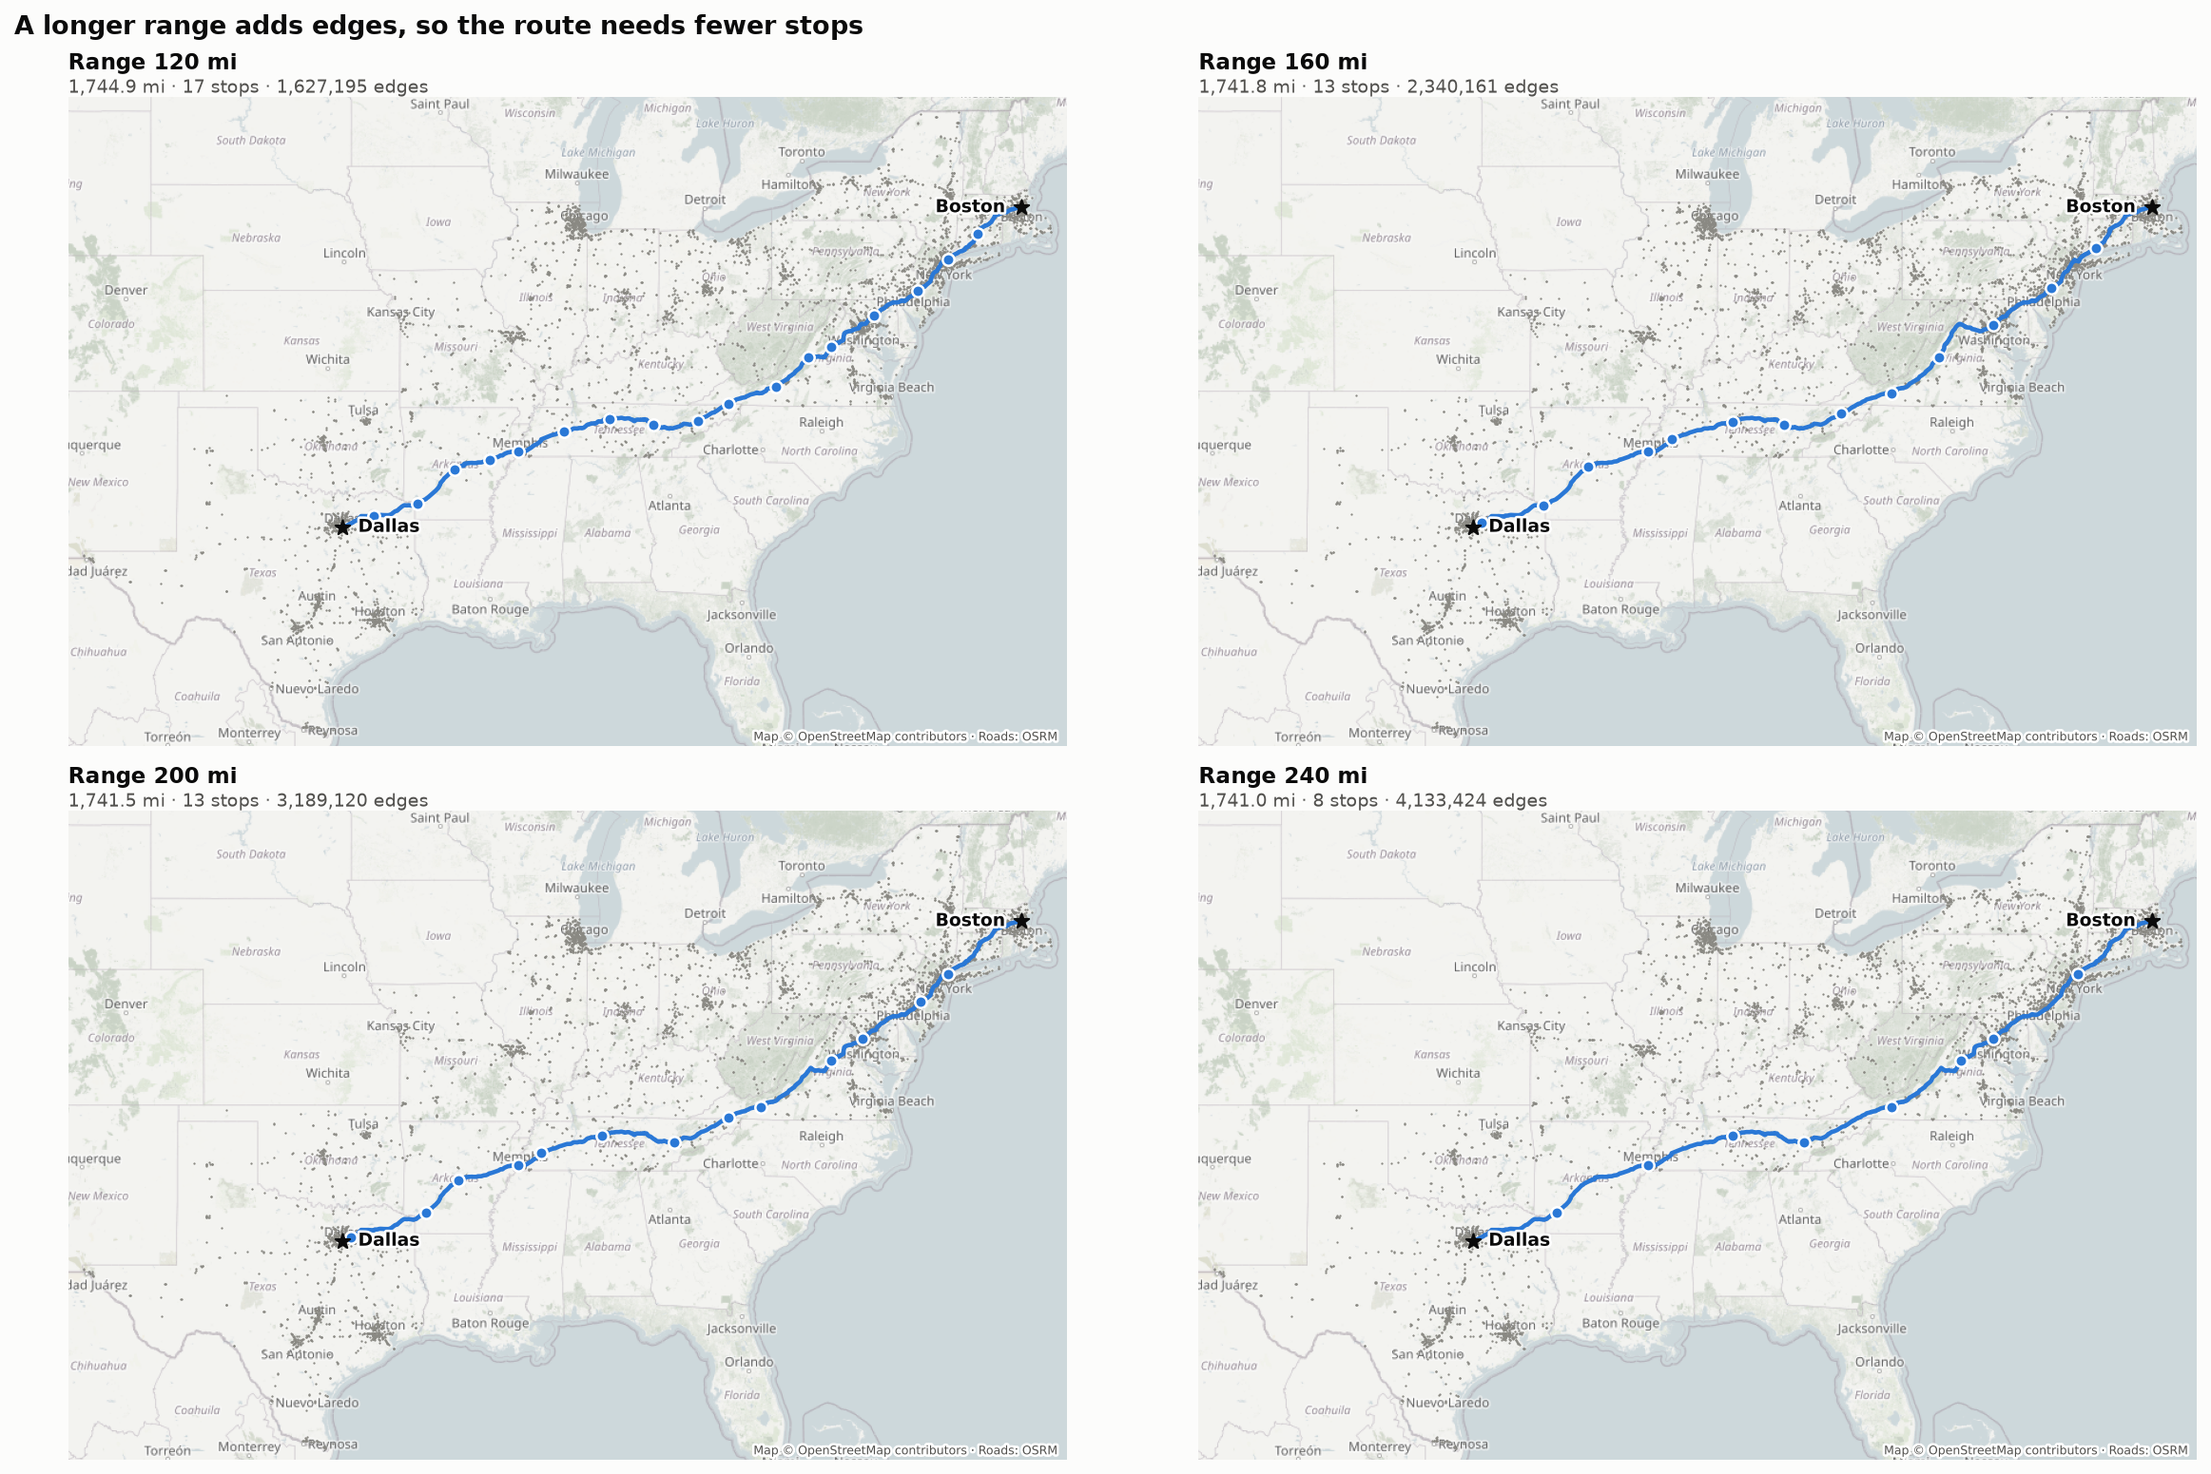
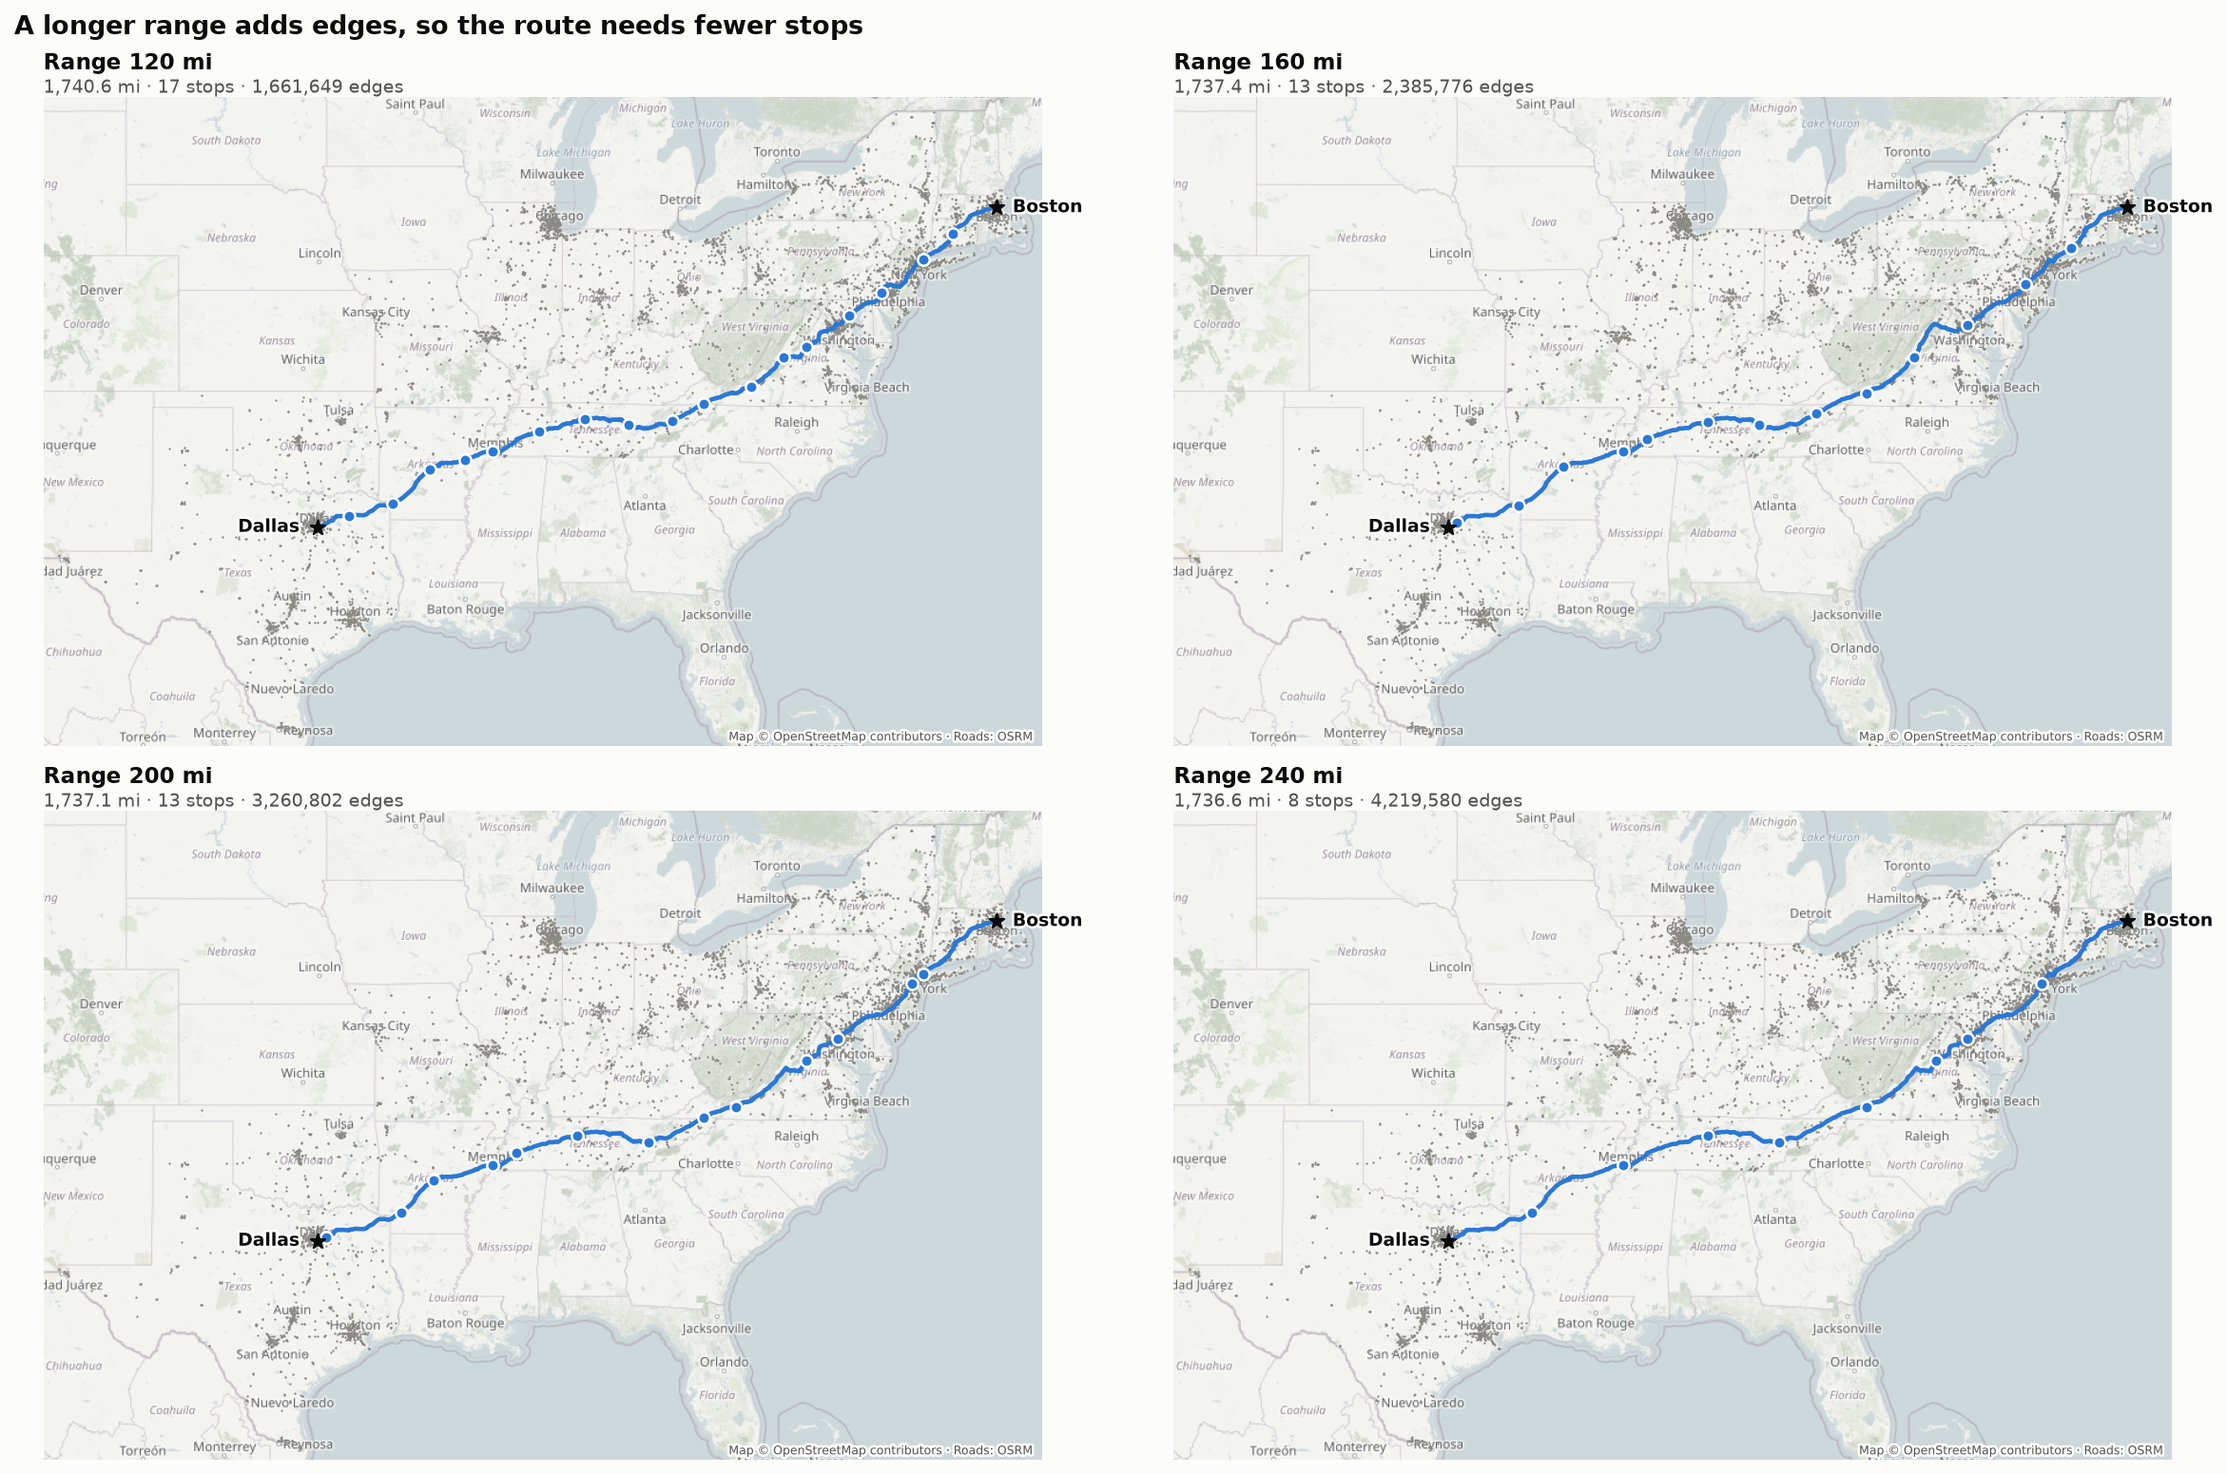
update of dijkstra and data generated by scirpts

diff --git a/Dijkstra/trip_table.py b/Dijkstra/trip_table.py
@@ -1,0 +1,122 @@
+"""Search work and time of Dijkstra on two real trips, as a slide table.
+
+Trips: Boston → Dallas and Buffalo, NY → Springfield, MO, on the same real network
+(network.py) with a 200-mile range (80% of a 250-mile Model Y). Boston → Dallas runs
+our hand-written Dijkstra, NetworkX and SciPy; Buffalo → Springfield only ours.
+
+  Nodes expanded  vertices taken off the heap with their distance final
+  Edges checked   edges looked at while relaxing those vertices
+  Median time     median of --trials timed searches; building the graph is not timed
+
+Run from this folder:
+    ../.venv/bin/python trip_table.py              # 101 timed runs per search
+    ../.venv/bin/python trip_table.py --trials 21
+The first run builds each trip's network (about a minute each) and caches it in cache/.
+"""
+
+import argparse
+import statistics
+import time
+
+import networkx as nx
+import numpy as np
+from scipy.sparse import csr_matrix
+from scipy.sparse.csgraph import dijkstra as scipy_dijkstra
+
+from dijkstra import charging_graph, dijkstra, shortest_path
+from network import END, START, load_network
+
+RANGE = 200
+TRIPS = [(START, END), ("Buffalo, NY", "Springfield, MO")]
+
+
+def median_ms(func, trials):
+    func()  # untimed warm-up
+    times = []
+    for _ in range(trials):
+        t0 = time.perf_counter()
+        func()
+        times.append((time.perf_counter() - t0) * 1000)
+    return statistics.median(times)
+
+
+def run_hand(graph, start, end, trials):
+    best, prev, trace = dijkstra(graph, start, end)
+    path = shortest_path(prev, start, end)
+    checked = sum(len(graph[u]) for u, _, _ in trace if u != end)  # the end is not relaxed
+    ms = median_ms(lambda: dijkstra(graph, start, end), trials)
+    return best[end], path, len(trace), checked, ms
+
+
+def run_networkx(graph, start, end, trials):
+    G = nx.DiGraph()
+    G.add_weighted_edges_from((a, b, w) for a, nbrs in graph.items() for b, w in nbrs.items())
+
+    # Count the work in one extra run: NetworkX calls the weight function once per
+    # edge it checks, from every vertex it expands except the end.
+    relaxed, checked = set(), 0
+    def counting_weight(u, v, d):
+        nonlocal checked
+        relaxed.add(u)
+        checked += 1
+        return d["weight"]
+    miles, path = nx.single_source_dijkstra(G, start, end, weight=counting_weight)
+
+    ms = median_ms(lambda: nx.single_source_dijkstra(G, start, end), trials)
+    return miles, path, len(relaxed) + 1, checked, ms
+
+
+def run_scipy(graph, start, end, trials):
+    vertices = list(graph)
+    index = {v: i for i, v in enumerate(vertices)}
+    rows, cols, miles = [], [], []
+    for a, nbrs in graph.items():
+        for b, w in nbrs.items():
+            rows.append(index[a])
+            cols.append(index[b])
+            miles.append(w)
+    matrix = csr_matrix((miles, (rows, cols)), shape=(len(vertices),) * 2)
+    search = lambda: scipy_dijkstra(matrix, directed=True, indices=index[start], return_predecessors=True)
+    dist, pred = search()
+
+    path, i = [], index[end]
+    while i >= 0:            # SciPy marks "no predecessor" with -9999
+        path.append(vertices[i])
+        i = pred[i]
+    # SciPy does not stop at the end: it settles every reachable vertex.
+    reached = np.isfinite(dist)
+    checked = int(np.diff(matrix.indptr)[reached].sum())
+    return float(dist[index[end]]), path[::-1], int(reached.sum()), checked, median_ms(search, trials)
+
+
+def main():
+    parser = argparse.ArgumentParser()
+    parser.add_argument("--trials", type=int, default=101, help="timed runs per search (default 101)")
+    args = parser.parse_args()
+
+    rows = []
+    for start, end in TRIPS:
+        _, _, _, legs = load_network(start, end)
+        graph = charging_graph(legs, RANGE)
+        edges = sum(map(len, graph.values()))
+        print(f"{start} → {end}: {len(graph):,} vertices, {edges:,} edges", flush=True)
+        methods = {"Hand-written": run_hand}
+        if (start, end) == TRIPS[0]:
+            methods.update({"NetworkX": run_networkx, "SciPy": run_scipy})
+        answers = []
+        for name, run in methods.items():
+            miles, path, expanded, checked, ms = run(graph, start, end, args.trials)
+            answers.append((miles, path))
+            rows.append((f"{start.split(',')[0]} → {end.split(',')[0]}", name, ms, expanded, checked,
+                         miles, len(path) - 2))
+        assert all(abs(m - answers[0][0]) < 1e-6 for m, _ in answers), f"methods disagree: {answers}"
+
+    print(f"\n{RANGE}-mile range, median of {args.trials} runs\n")
+    print("| Trip | Dijkstra | Median time (ms) | Nodes expanded | Edges checked | Miles | Stops |")
+    print("|---|---|---|---|---|---|---|")
+    for trip, name, ms, expanded, checked, miles, stops in rows:
+        print(f"| {trip} | {name} | {ms:,.2f} | {expanded:,} | {checked:,} | {miles:,.2f} | {stops} |")
+
+
+if __name__ == "__main__":
+    main()

diff --git a/Dijkstra/main.py b/Dijkstra/main.py
@@ -7,10 +7,12 @@ Run from this folder:
     ../.venv/bin/python main.py               # analysis + figures in figures/
     ../.venv/bin/python main.py --show        # also play the search live in a window
     ../.venv/bin/python main.py --range 240   # a different range (up to 240)
+    ../.venv/bin/python main.py --start "Buffalo, NY" --end "Springfield, MO"   # another trip
 The first run loads the full network (about 15 seconds) and caches it in cache/.
 """
 
 import argparse
+import re
 import sys
 from pathlib import Path
 
@@ -19,7 +21,7 @@ import matplotlib.pyplot as plt
 from dijkstra import plan_route
 from network import END, MAX_RANGE, START, load_network
 from visualize import (GifWriter, animate_search, plot_range_grid, plot_route,
-                       plot_search_snapshots, plot_sweep, plural, short)
+                       plot_search_snapshots, plot_sweep, plural, short, use_trip)
 
 COMPARE = [120, 160, 200, 240]   # ranges for the side-by-side figure
 SWEEP = range(40, MAX_RANGE + 1, 4)  # ranges for the sensitivity analysis
@@ -32,26 +34,30 @@ def main():
     parser.add_argument("--range", type=int, default=200,
                         help=f"longest leg in miles: 80%% of a full charge (default 200 = 80%% "
                              f"of a 250-mile Model Y, up to {MAX_RANGE})")
+    parser.add_argument("--start", default=START, help=f"default {START}")
+    parser.add_argument("--end", default=END, help=f"default {END}")
     parser.add_argument("--show", action="store_true", help="play the search live in a window")
     args = parser.parse_args()
     if not 0 < args.range <= MAX_RANGE:
         sys.exit(f"--range must be between 1 and {MAX_RANGE}: data/ only has legs up to "
                  f"{MAX_RANGE} miles.")
 
-    _, _, names, legs = load_network()
-    stops, miles, graph, trace = plan_route(legs, START, END, args.range)
+    start, end = args.start, args.end
+    use_trip(start, end)
+    _, _, names, legs = load_network(start, end)
+    stops, miles, graph, trace = plan_route(legs, start, end, args.range)
     if stops is None:
         sys.exit(f"No route with a {args.range}-mile range: some gap is too long. Try a longer range.")
 
     edges = sum(len(nbrs) for nbrs in graph.values())
     print(f"Charging graph for a {args.range}-mile range: "
-          f"{len(graph) - 2:,} chargers + {short(START)} + {short(END)}, {edges:,} directed edges\n")
+          f"{len(graph) - 2:,} chargers + {short(start)} + {short(end)}, {edges:,} directed edges\n")
 
     print(f"Dijkstra, every {PRINT_EVERY}th step")
     for step, (u, d, updates) in enumerate(trace, 1):
         if step % PRINT_EVERY == 0 or step in (1, len(trace)):
             print(f"{step:6,}. settle {short(u):<26} {d:8,.1f} mi | improved {len(updates):,} neighbors")
-    print(f"Settled {len(trace):,} of {len(graph):,} vertices before {short(END)}")
+    print(f"Settled {len(trace):,} of {len(graph):,} vertices before {short(end)}")
 
     print(f"\nBest route: {miles:,.1f} miles, {plural(len(stops) - 2, 'charging stop')}")
     for a, b in zip(stops, stops[1:]):
@@ -59,7 +65,7 @@ def main():
 
     sweep = []
     for r in SWEEP:
-        path, total, _, _ = plan_route(legs, START, END, r)
+        path, total, _, _ = plan_route(legs, start, end, r)
         sweep.append((r, total, len(path) - 2 if path else None))
 
     print("\nVarying the range (only the ranges where the answer changes)")
@@ -71,13 +77,16 @@ def main():
 
     print("\nDrawing figures on the real map")
     FIGURES.mkdir(exist_ok=True)
-    plot_route(stops, miles, graph, args.range, FIGURES / "route.png")
-    plot_range_grid([(r, *plan_route(legs, START, END, r)[:3]) for r in COMPARE],
-                    FIGURES / "range_comparison.png")
-    plot_sweep(sweep, args.range, FIGURES / "range_sweep.png")
-    plot_search_snapshots(trace, FIGURES / "search_snapshots.png")
+    # Boston → Dallas keeps the plain names; another trip adds its own, e.g. route_buffalo_springfield.png.
+    suffix = "" if (start, end) == (START, END) else \
+        "_" + "_".join(re.sub(r"[^a-z]+", "_", p.split(",")[0].lower()) for p in (start, end))
+    plot_route(stops, miles, graph, args.range, FIGURES / f"route{suffix}.png")
+    plot_range_grid([(r, *plan_route(legs, start, end, r)[:3]) for r in COMPARE],
+                    FIGURES / f"range_comparison{suffix}.png")
+    plot_sweep(sweep, args.range, FIGURES / f"range_sweep{suffix}.png")
+    plot_search_snapshots(trace, FIGURES / f"search_snapshots{suffix}.png")
     anim = animate_search(graph, trace, stops, miles, args.range)
-    anim.save(FIGURES / "search_on_map.gif", writer=GifWriter(fps=1.5), dpi=90)
+    anim.save(FIGURES / f"search_on_map{suffix}.gif", writer=GifWriter(fps=1.5), dpi=90)
     print(f"Figures saved to {FIGURES}")
 
     if args.show:

diff --git a/Dijkstra/network.py b/Dijkstra/network.py
@@ -4,13 +4,15 @@ The data comes from the repository root (data/, built by charger_graph.py):
 about 5,000 charger locations in 17 states from the Department of Energy's station
 list, and the road miles between every two of them that are at most 240 miles apart,
 measured on OpenStreetMap roads. Each leg includes
-the short detour from the road to the charger at both ends. Boston and Dallas are
-joined to every charger within 240 road miles.
+the short detour from the road to the charger at both ends. The start and end of a
+trip are joined to every charger within 240 road miles.
 
-The first call takes about 15 seconds; the result is cached in cache/network.pkl.
+The first call for a trip takes about a minute; the result is cached in cache/
+(cache/network.pkl for Boston to Dallas).
 """
 
 import pickle
+import re
 import sys
 from pathlib import Path
 
@@ -24,22 +26,31 @@ END = "Dallas, TX"
 MAX_RANGE = 240
 
 
-def load_network():
-    """Return (coords, cities, names, legs) for the whole network.
+def cache_path(start, end):
+    if (start, end) == (START, END):
+        return CACHE
+    slug = lambda place: re.sub(r"[^a-z]+", "_", place.lower()).strip("_")
+    return CACHE.with_name(f"network_{slug(start)}_to_{slug(end)}.pkl")
+
+
+def load_network(start=START, end=END):
+    """Return (coords, cities, names, legs) for the whole network, from start to end.
 
     coords[v] = (lat, lon) and cities[v] = "City, ST" for every vertex v; names[v] is
     the charger's name. legs[u] = (miles, neighbors): the legs out of u, shortest first.
-    Chargers are named by their street-graph id as a string; the ends by START and END.
+    Chargers are named by their street-graph id as a string; the ends by their place names.
     """
-    if CACHE.exists():
-        with open(CACHE, "rb") as f:
+    cache = cache_path(start, end)
+    if cache.exists():
+        with open(cache, "rb") as f:
             return pickle.load(f)
 
     sys.path.insert(0, str(ROOT))
     import trip  # root module: needs the root .venv and data/
 
-    T = trip.plan_trip(START, END, MAX_RANGE)["trip_graph"]
-    vid = {"START": START, "END": END}
+    # trip.py takes the full range and keeps legs up to 80 percent of it.
+    T = trip.plan_trip(start, end, MAX_RANGE / trip.BUFFER)["trip_graph"]
+    vid = {"START": start, "END": end}
     vid.update({n: str(n) for n in T if n not in vid})
 
     coords, cities, names, legs = {}, {}, {}, {}
@@ -52,7 +63,7 @@ def load_network():
         legs[v] = ([m for m, _ in row], [b for _, b in row])
 
     network = coords, cities, names, legs
-    CACHE.parent.mkdir(exist_ok=True)
-    with open(CACHE, "wb") as f:
+    cache.parent.mkdir(exist_ok=True)
+    with open(cache, "wb") as f:
         pickle.dump(network, f, protocol=pickle.HIGHEST_PROTOCOL)
     return network

diff --git a/Dijkstra/visualize.py b/Dijkstra/visualize.py
@@ -22,14 +22,22 @@ GRID, NODE = "#d6d5cf", "#8a8983"
 ROUTE, FRONTIER = "#2a78d6", "#eb6834"
 HALO = [pe.withStroke(linewidth=2.5, foreground="white")]
 
-COORDS, CITIES, NAMES, _ = load_network()
-VERTICES = list(COORDS)
-XY = np.array([mercator(*COORDS[v]) for v in VERTICES])
-INDEX = {v: i for i, v in enumerate(VERTICES)}
 
-# Map frame (south, west, north, east) around every charger, with a little margin.
-_lats, _lons = zip(*COORDS.values())
-BOUNDS = (min(_lats) - 0.4, min(_lons) - 0.6, max(_lats) + 0.4, max(_lons) + 0.6)
+
+def use_trip(start, end):
+    """Draw the network of the trip from start to end in every figure below."""
+    global START, END, COORDS, CITIES, NAMES, VERTICES, XY, INDEX, BOUNDS
+    START, END = start, end
+    COORDS, CITIES, NAMES, _ = load_network(start, end)
+    VERTICES = list(COORDS)
+    XY = np.array([mercator(*COORDS[v]) for v in VERTICES])
+    INDEX = {v: i for i, v in enumerate(VERTICES)}
+    # Map frame (south, west, north, east) around every charger, with a little margin.
+    lats, lons = zip(*COORDS.values())
+    BOUNDS = (min(lats) - 0.4, min(lons) - 0.6, max(lats) + 0.4, max(lons) + 0.6)
+
+
+use_trip(START, END)
 
 plt.rcParams.update({
     "figure.facecolor": BG, "axes.facecolor": BG, "savefig.facecolor": BG,
@@ -64,7 +72,9 @@ def draw_map(ax, zoom=5):
     ax.set_ylim(y0, y1)
     ax.set_axis_off()
     ax.scatter(*XY.T, s=1.2, color=NODE, lw=0, zorder=2)
-    for v, side in ((START, "left"), (END, "right")):
+    west = min((START, END), key=lambda v: xy(v)[0])
+    for v in (START, END):   # each label on the outer side, away from the route
+        side = "left" if v == west else "right"
         ax.scatter(*xy(v), s=60, marker="*", color=INK, zorder=9)
         ax.annotate(short(v), xy(v), xytext=(-8 if side == "left" else 8, 0), textcoords="offset points",
                     ha="right" if side == "left" else "left", va="center", fontsize=9,
